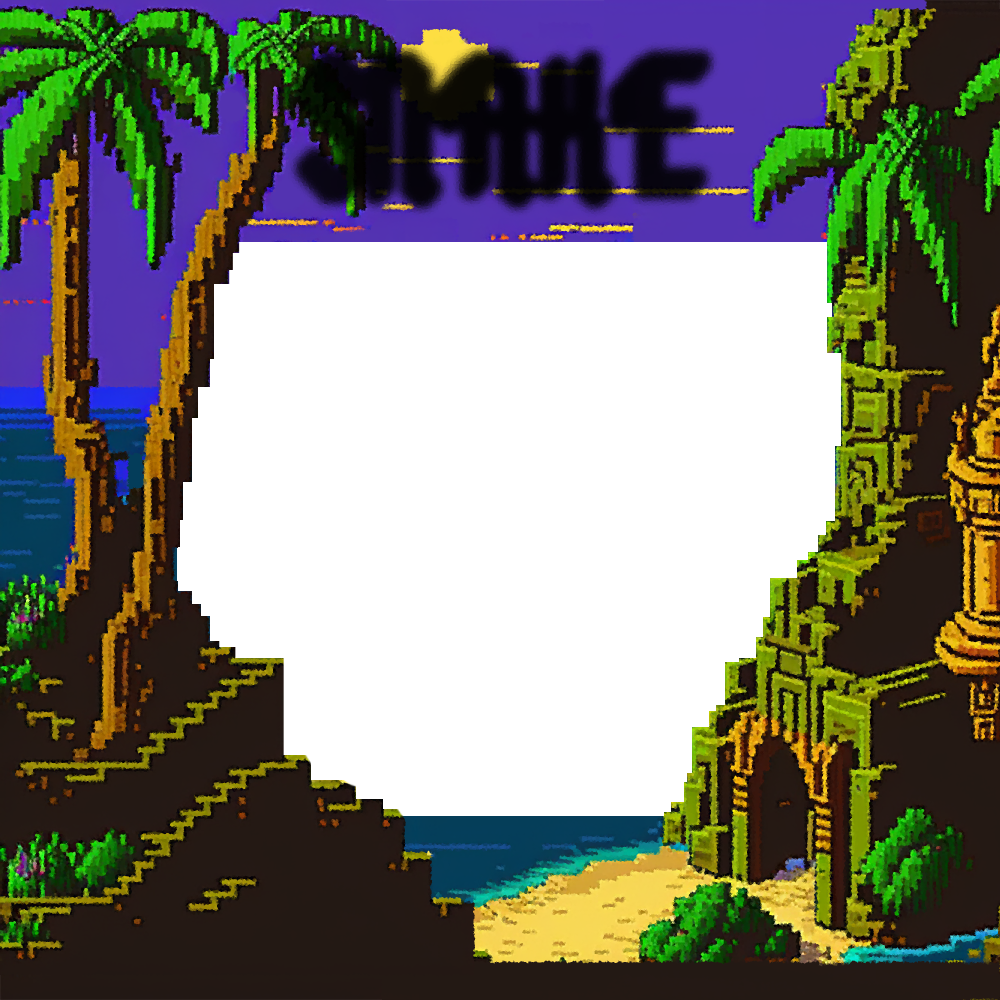
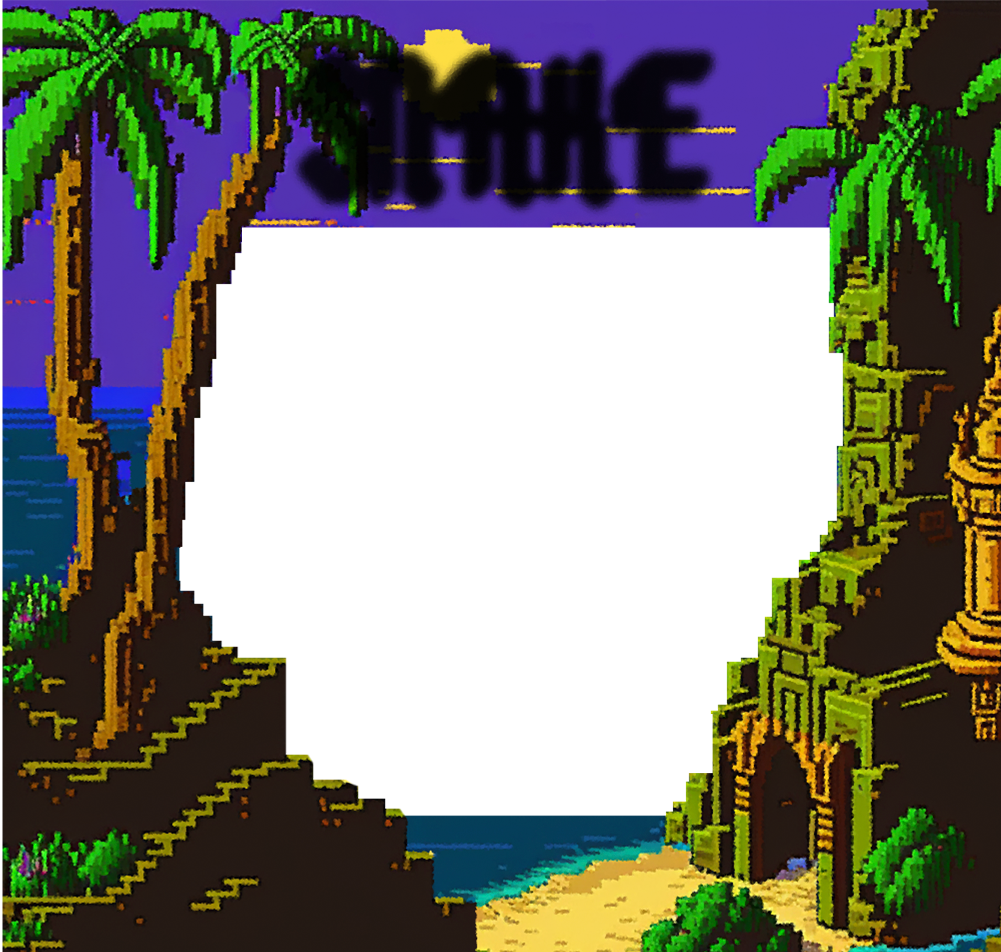
token shop first iteration

diff --git a/Snake/snake_game.py b/Snake/snake_game.py
@@ -46,10 +46,10 @@ MARGIN = 3
 
 def home_screen():   
     while True:
-        pygame.mixer.music.load('/Users/apple/Snake-Game/Snake/Assets/snake music.wav')
-        pygame.mixer.music.play(-1)
+        # pygame.mixer.music.load('/Users/apple/Snake-Game/Snake/Assets/snake music.wav')
+        # pygame.mixer.music.play(-1)
         global homescreen 
-        home_screen_surface = pygame.Surface((1000, 1000))
+        home_screen_surface = pygame.Surface((1000, 900))
         pygame.draw.rect(gameDisplay, BLACK, (500, 500, 500, 500), 0)
         background = pygame.image.load('/Users/apple/Snake-Game/Snake/Assets/main_screen2.png')
         button_hover = pygame.image.load('/Users/apple/Snake-Game/Snake/Assets/button_hover.png').convert_alpha()
@@ -74,6 +74,7 @@ def home_screen():
         pygame.display.update()
         load_game_bool = True
         is_hovering = False
+        token_shop_bool = False
 
         while load_game_bool:
             mouse = pygame.mouse.get_pos()
@@ -103,7 +104,7 @@ def home_screen():
                     gameDisplay.blit(game_info, [415, 660])
                     pygame.display.update()                             
             else:
-                if is_hovering:
+                if is_hovering and not token_shop_bool:
                     is_hovering = False
                     gameDisplay.blit(home_screen_surface, (0, 0)) # clear the screen
                     pygame.display.update()            
@@ -111,23 +112,86 @@ def home_screen():
                 if 340 + 300 > mouse[0] > 340 and 225 + 80 > mouse[1] > 225: #START GAME
                     pygame.mixer.music.load(start_noise)
                     pygame.mixer.music.play(0)
+                    print('called')
                     homescreen = False
                     return
                 if 340 + 300 > mouse[0] > 340 and 500 + 80 > mouse[1] > 500: #TOKEN SHOP
+                    token_shop_bool = True #makes it so that you stay on the token shop screen
                     token_shop_surface()
+                    homescreen = False
                     pygame.display.update()
+                    return
 
 
 
 def token_shop_surface():
-        token_background = pygame.image.load('/Users/apple/Snake-Game/Snake/Assets/token_shop.png')
-        button_background = pygame.image.load('/Users/apple/Snake-Game/Snake/Assets/button_background_background.png')
-        game_text = font2.render("SNAKE", True, WHITE)
-        token_shop_surface = pygame.Surface((1000, 1000))
+
+    scroll_offset = 0
+    scroll_speed = 500
+    scroll_direction = None
+
+    token_shop_surface = pygame.Surface((1000, 900), pygame.SRCALPHA)
+
+    token_background_top = pygame.image.load('/Users/apple/Snake-Game/Snake/Assets/token_shop_top.png')
+    token_background_bottom = pygame.image.load('/Users/apple/Snake-Game/Snake/Assets/token_shop_bottom.png')
+    token_bars = pygame.image.load('/Users/apple/Snake-Game/Snake/Assets/token_status_bars1.png')
+    button_background = pygame.image.load('/Users/apple/Snake-Game/Snake/Assets/button_background_background.png')
+    token_hover = pygame.image.load('/Users/apple/Snake-Game/Snake/Assets/token_hover.png')
+    game_text = font2.render("SNAKE", True, WHITE)
+    constant_multiplier = font4.render("2x  Multiplier", True, WHITE)
+    lower_speed = font4.render("Slow  Speed", True, WHITE)
+    more_food_per_link = font4.render("Slow  Growth", True, WHITE)
+    token_output_increase = font4.render("2x  Tokens", True, WHITE)
+    increase_lives = font4.render("+1  Life", True, WHITE)
+    increase_food = font4.render("More  Food", True, WHITE)
+    
+    while True:
+
+        first_page = True
+        second_page = False
+
         token_shop_surface.blit(button_background, [0,-35])
-        token_shop_surface.blit(token_background, [0,-35])
+
+        #FIRST PAGE
+        token_shop_surface.blit(constant_multiplier, [440, 225])
+        token_shop_surface.blit(lower_speed, [450, 365])
+        token_shop_surface.blit(more_food_per_link, [440, 505])
+        token_shop_surface.blit(token_output_increase, [450, 645])
+        token_shop_surface.blit(token_bars, [0, -30])
+
+        #SECOND PAGE
+        if second_page:
+            token_shop_surface.blit(increase_lives, [-400, 365])
+            token_shop_surface.blit(increase_food, [-400, 225])
+            token_shop_surface.blit(token_bars, [-400, -30])
+
+
+        token_shop_surface.blit(token_background_top, [0,-35])
+        token_shop_surface.blit(token_background_bottom, [0,-35])
         token_shop_surface.blit(game_text, [305, 25])
         gameDisplay.blit(token_shop_surface, (0, 0))
+        pygame.display.update()
+
+        for event in pygame.event.get():
+            if event.type == pygame.KEYDOWN:
+                    if event.key == pygame.K_TAB:
+                        home_screen()
+                        return
+                    elif event.key == pygame.K_LEFT or event.key == pygame.K_d:
+                            scroll_direction = 'LEFT'
+                    elif event.key == pygame.K_RIGHT or event.key == pygame.K_a:
+                            scroll_direction = 'RIGHT'
+                    
+                    if scroll_direction == 'LEFT':
+                        scroll_offset = max(scroll_offset - scroll_speed, -400)
+                    elif scroll_direction == 'RIGHT':
+                        scroll_offset = min(scroll_offset + scroll_speed, 0)
+
+        mouse_x, mouse_y = pygame.mouse.get_pos()
+        text = font.render(f"Mouse position: ({mouse_x}, {mouse_y})", True, WHITE)
+        gameDisplay.blit(text, (0, 0))
+        pygame.display.update()
+
 
 def pause_screen():
 
@@ -152,7 +216,7 @@ def pause_screen():
     gameDisplay.blit(speed, (430,385))
     gameDisplay.blit(links, (440,485))
     gameDisplay.blit(multiplier_text, (410,585))
-    gameDisplay.blit(home_text, (420,870))
+    gameDisplay.blit(home_text, (420,860))
     pygame.display.update()
 
 
@@ -165,8 +229,8 @@ def pause_screen():
         if 380 + 250 > mouse[0] > 380 and 860 + 60 > mouse[1] > 860: #GO BACK HOME
             if not is_hovering:
                 is_hovering = True
-                gameDisplay.blit(exit_hover, (400, 815))
-                gameDisplay.blit(home_text, (420,870))
+                gameDisplay.blit(exit_hover, (400, 805))
+                gameDisplay.blit(home_text, (420,860))
                 pygame.display.update()
         else:
             if is_hovering:
@@ -179,7 +243,7 @@ def pause_screen():
                 gameDisplay.blit(links, (440,485))
                 gameDisplay.blit(multiplier_text, (410,585))
                 pygame.draw.rect(gameDisplay, BLACK, (320, 870, 600, 200), 0)
-                gameDisplay.blit(home_text, (420,870))
+                gameDisplay.blit(home_text, (420,860))
                 pygame.display.update()
                 pygame.display.update()    
         for event in pygame.event.get():
@@ -368,8 +432,8 @@ class Snake:
 pygame.init()
 
 # Set display dimensions
-display_width = 600
-display_height = 600
+display_width = 1000
+display_height = 1000
 
 # Initialize game display
 gameDisplay = pygame.display.set_mode((display_width,display_height))
@@ -391,9 +455,10 @@ token_pos = (random.randint(0, 19), random.randint(0, 19))
 font = pygame.font.Font(FONT, 45)        
 font2 = pygame.font.Font(FONT, 150)
 font3 = pygame.font.Font(FONT, 25)
+font4 = pygame.font.Font(FONT, 35)
 
 # Set the HEIGHT and WIDTH of the screen
-WINDOW_SIZE = [1000, 1000]
+WINDOW_SIZE = [1000, 900]
 screen = pygame.display.set_mode(WINDOW_SIZE)
 
 # Loop until the user clicks the close button.
@@ -413,7 +478,6 @@ while not done:
         if not pause_sound_played:
             pygame.mixer.music.load('/Users/apple/Snake-Game/Snake/Assets/snake pause.wav')
             pygame.mixer.music.play(0)
-            print('this happened')
             button_screen()
             pause_sound_played = True
         framerate = framerate + 5
@@ -460,6 +524,9 @@ while not done:
     if snake.check_collision():
         pygame.mixer.music.load('/Users/apple/Snake-Game/Snake/Assets/snake collision.wav')
         pygame.mixer.music.play(0)
+        with open('/Users/apple/Snake-Game/Snake/snake_leaderboard.pickle', "wb") as file: #GOING TO DO A LEADERBOARD EVENTUALLY
+            data = (food_counter, elapsed_time)
+            pickle.dump(data, file)
         food_pos = (random.randint(0, 19), random.randint(0, 19))
         first_key_pressed = False
         lives_left -= 1
